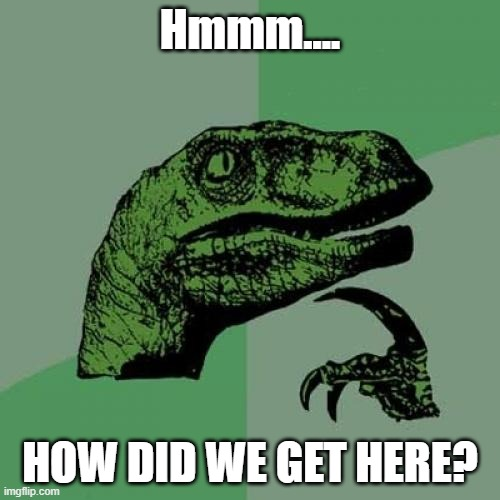
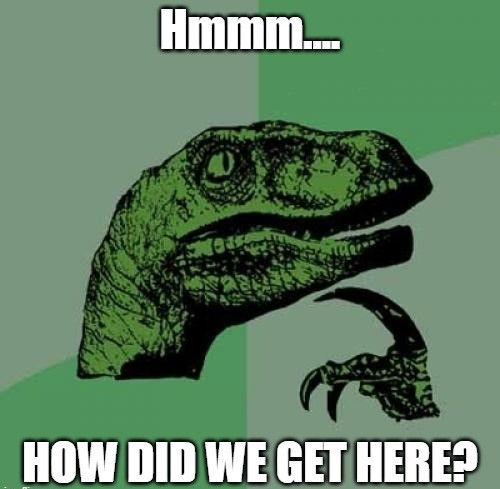
Added 404 page

diff --git a/codemaster/app/questions/tournament/[id]/page.tsx b/codemaster/app/questions/tournament/[id]/page.tsx
@@ -3,7 +3,8 @@ import VerifyPassword from "@/components/buttons/VerifyPassword";
 import checkInUser from "@/app/utils/Misc/checkInUser";
 import Link from "next/link";
 import convertDate from "@/app/utils/dateConversion/convertDateV1";
-import tournamentIcon from "@/assets/tournament-icon.jpg"
+import tournamentIcon from "@/assets/tournament-icon.jpg";
+import { redirect } from "next/navigation";
 const thisLink = "/tournaments";
 
 export default async function TournamentStartPage({params: {id}}: {params: {id: string}}) {
@@ -25,6 +26,9 @@ export default async function TournamentStartPage({params: {id}}: {params: {id: 
   if (res.error) { console.error(res.error); }
 
   const tournamentData = res.data;
+  if (!tournamentData) {
+    redirect("/empty");
+  }
   const verified = tournamentData.verified_by !== null;
 
   let tournamentsDoneByUser = userData.tournaments_done;

diff --git a/codemaster/app/not-found.tsx b/codemaster/app/not-found.tsx
@@ -1,0 +1,19 @@
+import Image from "next/image";
+import errorImage from "@/assets/404-dino_meme.jpg";
+
+export default function NotFound() {
+  return (
+    <div className="flex flex-col justify-center my-auto">
+      <div className="flex flex-col gap-4 p-4 bg-red-400 rounded-lg">
+        <div className="flex flex-row justify-between">
+          <div className="flex flex-col justify-center">
+            <h1 className="font-bold text-white text-9xl">404</h1>
+            <h2 className="text-4xl font-bold text-white">Page not found</h2>
+          </div>
+          <Image src={errorImage} alt="error image" height={400} width={400} className="rounded-lg" />
+        </div>
+        <p className="text-lg text-white">The page you are looking for might have been removed, is temporarily unavailable or doesn't exist.</p>
+      </div>
+    </div>
+  );
+}  

diff --git a/codemaster/app/forum/[topic]/page.tsx b/codemaster/app/forum/[topic]/page.tsx
@@ -1,6 +1,7 @@
 import Navbar from "@/components/misc/navbar";
 import DiscussionsTable from "@/components/tables/discussionsTable";
 import checkInUser from "@/app/utils/Misc/checkInUser";
+import { redirect } from "next/navigation";
 
 const thisLink = "/forum";
 
@@ -12,10 +13,15 @@ export default async function Discussions({params: {topic}}: {params: {topic: st
   }
 
   const preferences = userData.preferences;
+  const allowed_topics = ["General", "Contests", "Tournaments", "Feedback", "Others"];
 
   const res = await supabase.from("Discussions").select("*").eq("type", topic);
   if (res.error) { console.error(res.error) }
   const discussions: any = res.data;
+
+  if (!allowed_topics.includes(topic)) {
+    redirect("/empty");
+  }
 
   return (
       <div className="flex flex-col items-center flex-1 w-full gap-10" style={preferences.body}>

diff --git a/codemaster/app/forum/discussion/[id]/page.tsx b/codemaster/app/forum/discussion/[id]/page.tsx
@@ -1,7 +1,7 @@
 import Navbar from "@/components/misc/navbar";
 import CommentSection from "@/components/pages/DiscussionPage";
 import checkInUser from "@/app/utils/Misc/checkInUser";
-
+import { redirect } from "next/navigation";
 
 export default async function Discussion({params: {id}}: {params: {id: string}}) {
 
@@ -18,6 +18,10 @@ export default async function Discussion({params: {id}}: {params: {id: string}})
   const res = await supabase.from("Discussions").select("*").eq("id", id).single();
   if (res.error) { console.error(res.error) }
   const discussion = res.data;
+
+  if (!discussion) {
+    redirect("/empty");
+  }
 
   const res2 = await supabase.from("Comments").select().eq("id", discussion.head_comment).single();
   if (res2.error) { console.error(res.error) }

diff --git a/codemaster/app/questions/contest/[id]/page.tsx b/codemaster/app/questions/contest/[id]/page.tsx
@@ -3,6 +3,7 @@ import Link from "next/link";
 import checkInUser from "@/app/utils/Misc/checkInUser";
 import convertDate from "@/app/utils/dateConversion/convertDateV1";
 import contestIcon from "@/assets/contest-icon.jpg";
+import { redirect } from "next/navigation";
 const thisLink = "/contests";
 
 export default async function ContestStartPage({params: {id}}: {params: {id: string}}) {
@@ -24,6 +25,9 @@ export default async function ContestStartPage({params: {id}}: {params: {id: str
   if (res.error) { console.error(res.error); }
 
   const contestData = res.data;
+  if (!contestData) {
+    redirect("/empty");
+  }
 
   let contestsDoneByUser = userData.contests_done;
   contestsDoneByUser = contestsDoneByUser ? contestsDoneByUser : [];

diff --git a/codemaster/app/voting/[id]/page.tsx b/codemaster/app/voting/[id]/page.tsx
@@ -4,6 +4,7 @@ import placeInCodeBox from "@/components/codeBoxes/CodeBox";
 import Navbar from "@/components/misc/navbar";
 import Voting from "@/components/misc/voting";
 import VotingResults from "@/components/misc/votingResults";
+import { redirect } from "next/navigation";
 
 export default async function VotingPage({params: {id}}: {params: {id: string}}) {
 
@@ -23,6 +24,10 @@ export default async function VotingPage({params: {id}}: {params: {id: string}})
     .single();
   
   if (res.error) { console.error(res.error); }
+
+  if (!res.data) {
+    redirect("/empty");
+  }
 
   const data = res.data;
   const voting_status = new Date().getTime() > new Date(data.voting_deadline).getTime() ? "Closed" : "Open";

diff --git a/codemaster/app/verify/[id]/page.tsx b/codemaster/app/verify/[id]/page.tsx
@@ -1,6 +1,7 @@
 import Navbar from "@/components/misc/navbar";
 import ReviewVerification from "@/components/misc/reviewVerification";
 import checkInUser from "@/app/utils/Misc/checkInUser";
+import { redirect } from "next/navigation";
 
 const thisLink = "/others";
 
@@ -17,6 +18,10 @@ export default async function Verify({params: {id}}: {params: {id: string}}) {
 
   const { data, error } = await supabase.from("Verifications").select("*").eq("id", id);
   if (error) { console.error(error) }
+
+  if (!data) {
+    redirect("/empty");
+  }
 
   if (data?.length === 0) {
     return (

diff --git a/codemaster/components/tables/questionsTableWithVoting.tsx b/codemaster/components/tables/questionsTableWithVoting.tsx
@@ -56,7 +56,7 @@ export default function QuestionsTable(data: any) {
     <div style={{ borderRight: '1px solid rgb(156 163 175)' }}>Status</div>
     <div style={{ borderRight: '1px solid rgb(156 163 175)', textAlign: 'left', paddingLeft: '1rem'}}>Title</div>
     <div style={{ borderRight: '1px solid rgb(156 163 175)' }}>Difficulty</div>
-    <div style={{ borderRight: '1px solid rgb(156 163 175)' }}>Points</div>
+    <div style={{ borderRight: '1px solid rgb(156 163 175)' }}>Max Points</div>
     <div>Voting</div>
     </div>
     

diff --git a/codemaster/app/questions/[id]/page.tsx b/codemaster/app/questions/[id]/page.tsx
@@ -140,6 +140,10 @@ export default async function Question({params: {id}}: {params: {id: string}}) {
   const { data: questionData, error: err } = await supabase.from("Questions").select(`*`).eq("id", ID).single();
   if (err) { console.error(err); }
 
+  if (!questionData) {
+    return redirect("/empty");
+  }
+
   // prevent users from accessing questions that are not part of a competition
   if (questionData === null || (questionData.purpose !== "general" && single)) { 
     return redirect("/problemset");
